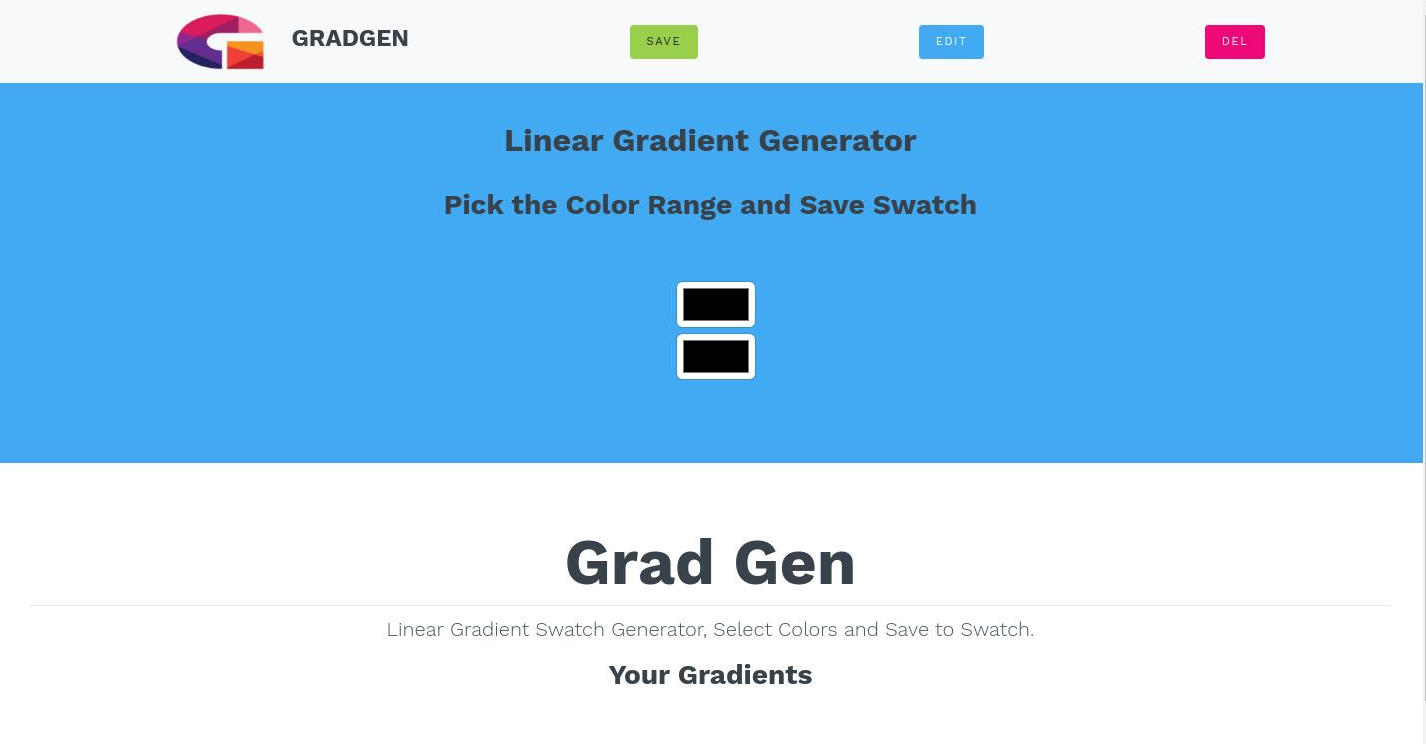
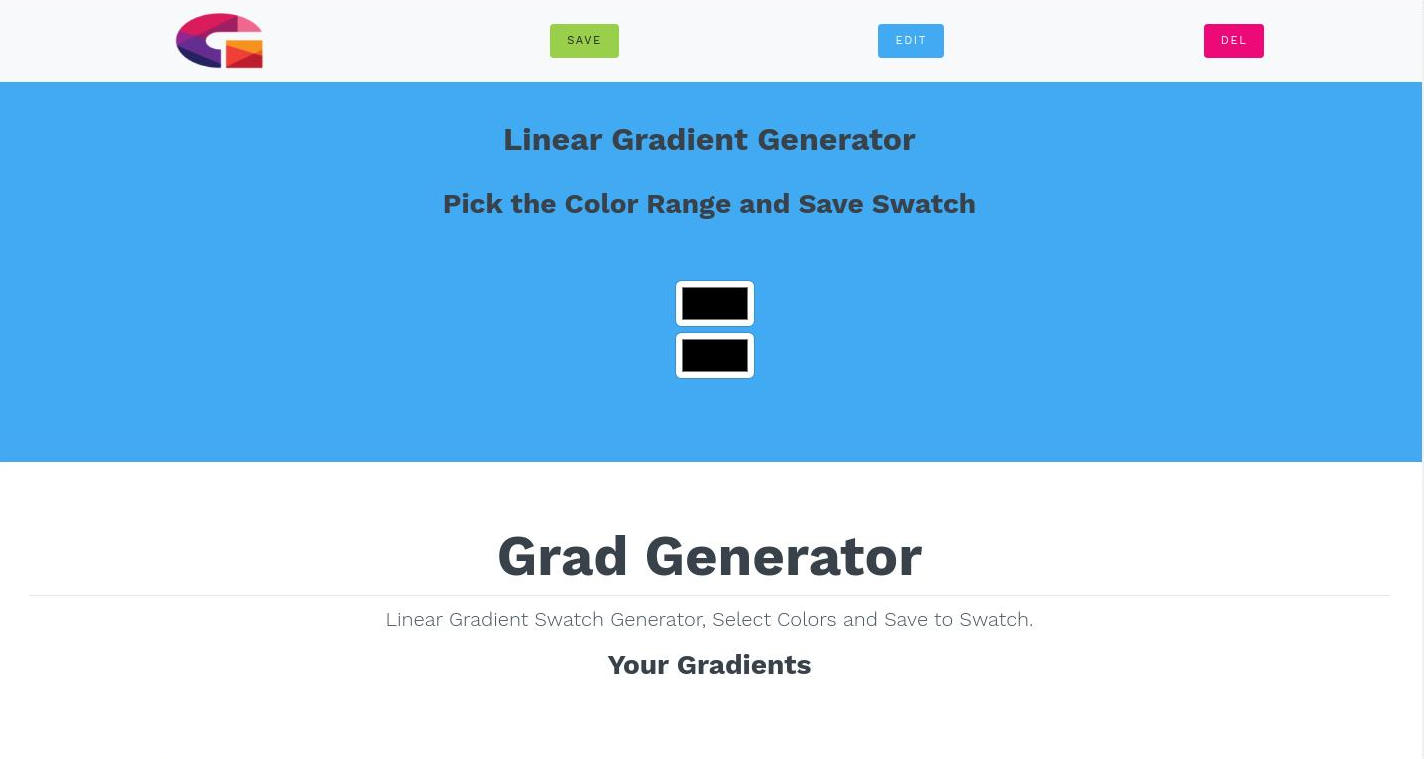
Update

diff --git a/src/App.vue b/src/App.vue
@@ -3,13 +3,38 @@
 <nav class="navbar navbar-expand-lg navbar-light bg-light">
   <div class="container">
     <a class="navbar-brand" href="#">
-       <img src="./assets/img/Logo.webp" alt="Logo" width="100px">
-       </a>
-       <span><h4>GradGen</h4></span>
-     <button type="button" id="createBtn" @click="createSwatch" class="navbar ml-auto btn btn-sm btn-success">Save</button>
+     <img src="./assets/img/Logo.webp" alt="GradGen Logo" width="100px">
+     </a>
+      <div>
+      <b-modal
+      id="modal-prevent-closing"
+      ref="modal"
+      title="Name Your Swatch"
+      @show="resetModal"
+      @hidden="resetModal"
+      @ok="handleOk"
+    >
+    <form ref="form" @submit.stop.prevent="handleSubmit">
+        <b-form-group
+          :state="nameState"
+          label="Swatch Name"
+          label-for="name-input"
+          invalid-feedback="Name is required"
+        >
+         <b-form-input
+            id="name-input"
+            v-model="name"
+            :state="nameState"
+            required
+          ></b-form-input>
+        </b-form-group>
+      </form>
+    </b-modal>
+  </div>
+  <button type="button" id="createBtn" @click="createSwatch" class="navbar ml-auto btn btn-sm btn-success">Save</button>
     <button type="button" id="editBtn" @click="editSwatch" class="navbar ml-auto btn btn-sm btn-info" >Edit</button>
     <button type="button" id="delBtn" @click="deleteSwatch" class="navbar ml-auto btn btn-sm btn-primary" >Del</button>
-    </div>
+  </div>
 </nav>
   <div id="bodybg">
 <div class="container text-center">
@@ -21,46 +46,83 @@
     <div class="mx-auto" style="width: 80px;">
      <b-form-input type="color" size="lg" v-model="value1" ref="value1" :value="value1" @input="setbgColor()" id="colorone" ></b-form-input>
      <b-form-input type="color" size="lg" v-model="value2" ref="value2" :value="value2" @input="setbgColor()" id="colortwo" ></b-form-input>
-    </div>
+</div>
 </div>
 </div>
    <b-jumbotron class="text-center">
-   <template v-slot:header>Grad Gen</template>
-
-    <template v-slot:lead>
+   <template v-slot:header>Grad Generator</template>
+   <template v-slot:lead>
       Linear Gradient Swatch Generator, Select Colors and Save to Swatch.
-    </template>
+   </template>
 <div class="container-fluid bg-3 text-center">
   <h3>Your Gradients</h3><br>
   <div class="row">
- </div>
-  </div>
+</div>
+</div>
 </b-jumbotron>
+<Footer />
 </div>
 </template>
 <script>
+import Footer from '@/components/Footer'
 export default {
-props: ['value'],
-    data () {
-    return {}
+  data() {
+      return {
+        name: '',
+        nameState: null,
+        submittedNames: []
+      }
   },
+  components: {
+    Footer
+  },
+  props: ['value'],
   computed: {},
   methods: {
-    // Pick and Set the BG Gradient to main div
-      setbgColor() {
-        const bg = document.getElementById('bodybg');
-        this.$emit('input', {
-        value1: +this.$refs.value1.value,
-        value2: +this.$refs.value2.value
-       })
-        bg.style.background = `linear-gradient(to right, ${this.value1}, ${this.value2})`;
+      checkFormValidity() {
+        const valid = this.$refs.form.checkValidity()
+        this.nameState = valid
+        return valid
+      },
+      resetModal() {
+        this.name = ''
+        this.nameState = null
+      },
+      handleOk(bvModalEvt) {
+        // Prevent modal from closing
+        bvModalEvt.preventDefault()
+        // Trigger submit handler
+        this.handleSubmit()
+      },
+      handleSubmit() {
+        // Exit when the form isn't valid
+        if (!this.checkFormValidity()) {
+          return
+        }
+        // Push the name to submitted names
+        this.submittedNames.push(this.name)
+        // Hide the modal manually
+        this.$nextTick(() => {
+        this.$bvModal.hide('modal-prevent-closing')
+        })
+      },
+  // Pick and Set the BG Gradient to main div
+  setbgColor() {
+      const bg = document.getElementById('bodybg');
+      this.$emit('input', {
+      value1: +this.$refs.value1.value,
+      value2: +this.$refs.value2.value
+      })
+      bg.style.background = `linear-gradient(to right, ${this.value1}, ${this.value2})`;
   },
-  //  Copy gradient, Create new elements for swatch and add to swatch
+  // Copy gradient, Create new elements for swatch and add to swatch
   createSwatch() {
      // Set the actual css style value/statement for the gradient
       let gradient = `linear-gradient(to right, ${this.value1}, ${this.value2})`;
-     // Get just the hex values to display/user copy
+     // Set just the hex values to display/user copy
       let hexValues = `${this.value1}, ${this.value2}`;
+      // Set the swatch name
+      let swatchname = document.getElementById('name-input');
       // Swatch elements, a col-md-3 and two divs
       let newSwatch = document.createElement('div');
       let gradDiv = document.createElement('div');
@@ -81,46 +143,23 @@ props: ['value'],
       //If it isn't "undefined" and it isn't "null", then it exists.
       if(typeof(element) != 'undefined' && element != null) {
         let i;
-        swatch = document.querySelector('.row').childNodes[i];
+        swatch = document.querySelector('.row').children;
         for (i = 0; i < swatch.length[0]; i++) {
-        swatch[i].appendChild(newSwatch);
+        swatch.appendChild(newSwatch);
         gradDiv.style.backgroundImage = gradient;
         textDiv.innerHTML = `<h5>${hexValues}</h5><p>${hexValues}</p>`;
-        } 
+        }
         } else {
         // First swatch in first row.
         swatch.appendChild(newSwatch);
         gradDiv.style.backgroundImage = gradient;
         textDiv.innerHTML = `<h5>${hexValues}</h5><p>${hexValues}</p>`;
-      }
+        this.$bvModal.show('modal-prevent-closing');
+        console.log(swatchname);
+        }
     },
-    editSwatch() {
-     // Get the container element
-     let gradContainer = document.getElementById("bg-gradient");
-
-     // Get all divs with class="col" inside the container
-     let grads = gradContainer.getElementsByClassName("col-md-3");
-
-     // Loop through the grads and add the active class to the current/clicked item
-     for (let i = 0; i < grads.length; i++) {
-     grads[i].addEventListener("click", function() {
-     let current = document.getElementsByClassName("active");
-
-     // If there's no active class
-     if (current.length > 0) {
-      current[0].className = current[0].className.replace(" active", "");
-     }
-
-     // Add the active class to the current/clicked div
-     this.className += " active";
-  });
-}
-
-  });
-}
-
-    },
-    deleteWSwatch() {}
+    editSwatch() {},
+    deleteSwatch() {},
   }
 }
 </script>
@@ -132,7 +171,10 @@ props: ['value'],
 }
 /* Add a gray background color and some padding to the footer */
 footer {
-      background-color: gainsboro;
+      display:flex;
+      justify-content: center;
+      align-items: center;
+      background-color: gainsboro!important;
       padding:12px;
     }
     .navbar-brand {
@@ -140,7 +182,7 @@ footer {
       padding: 10px;
     }
     h4 {
-    margin-top: 12px;
+    margin-top: 15px;
     text-transform: uppercase;
     color: #345678;
     }

diff --git a/src/components/Footer.vue b/src/components/Footer.vue
@@ -1,0 +1,33 @@
+<template>
+ <section class="container">
+ <v-card height="150">
+    <v-footer
+      absolute
+      class="font-weight-medium"
+    >
+      <v-col
+        class="text-center"
+        cols="12"
+      >
+        {{ new Date().getFullYear() }} — <strong>Xhostcom</strong>
+      </v-col>
+    </v-footer>
+  </v-card>
+ </section>
+</template>
+
+<script>
+export default {
+
+}
+</script>
+
+<style scoped>
+.v-footer {
+background-color: gainsboro!important;
+}
+.text-center {
+  text-align:center;
+  margin: 0 auto;
+}
+</style>
